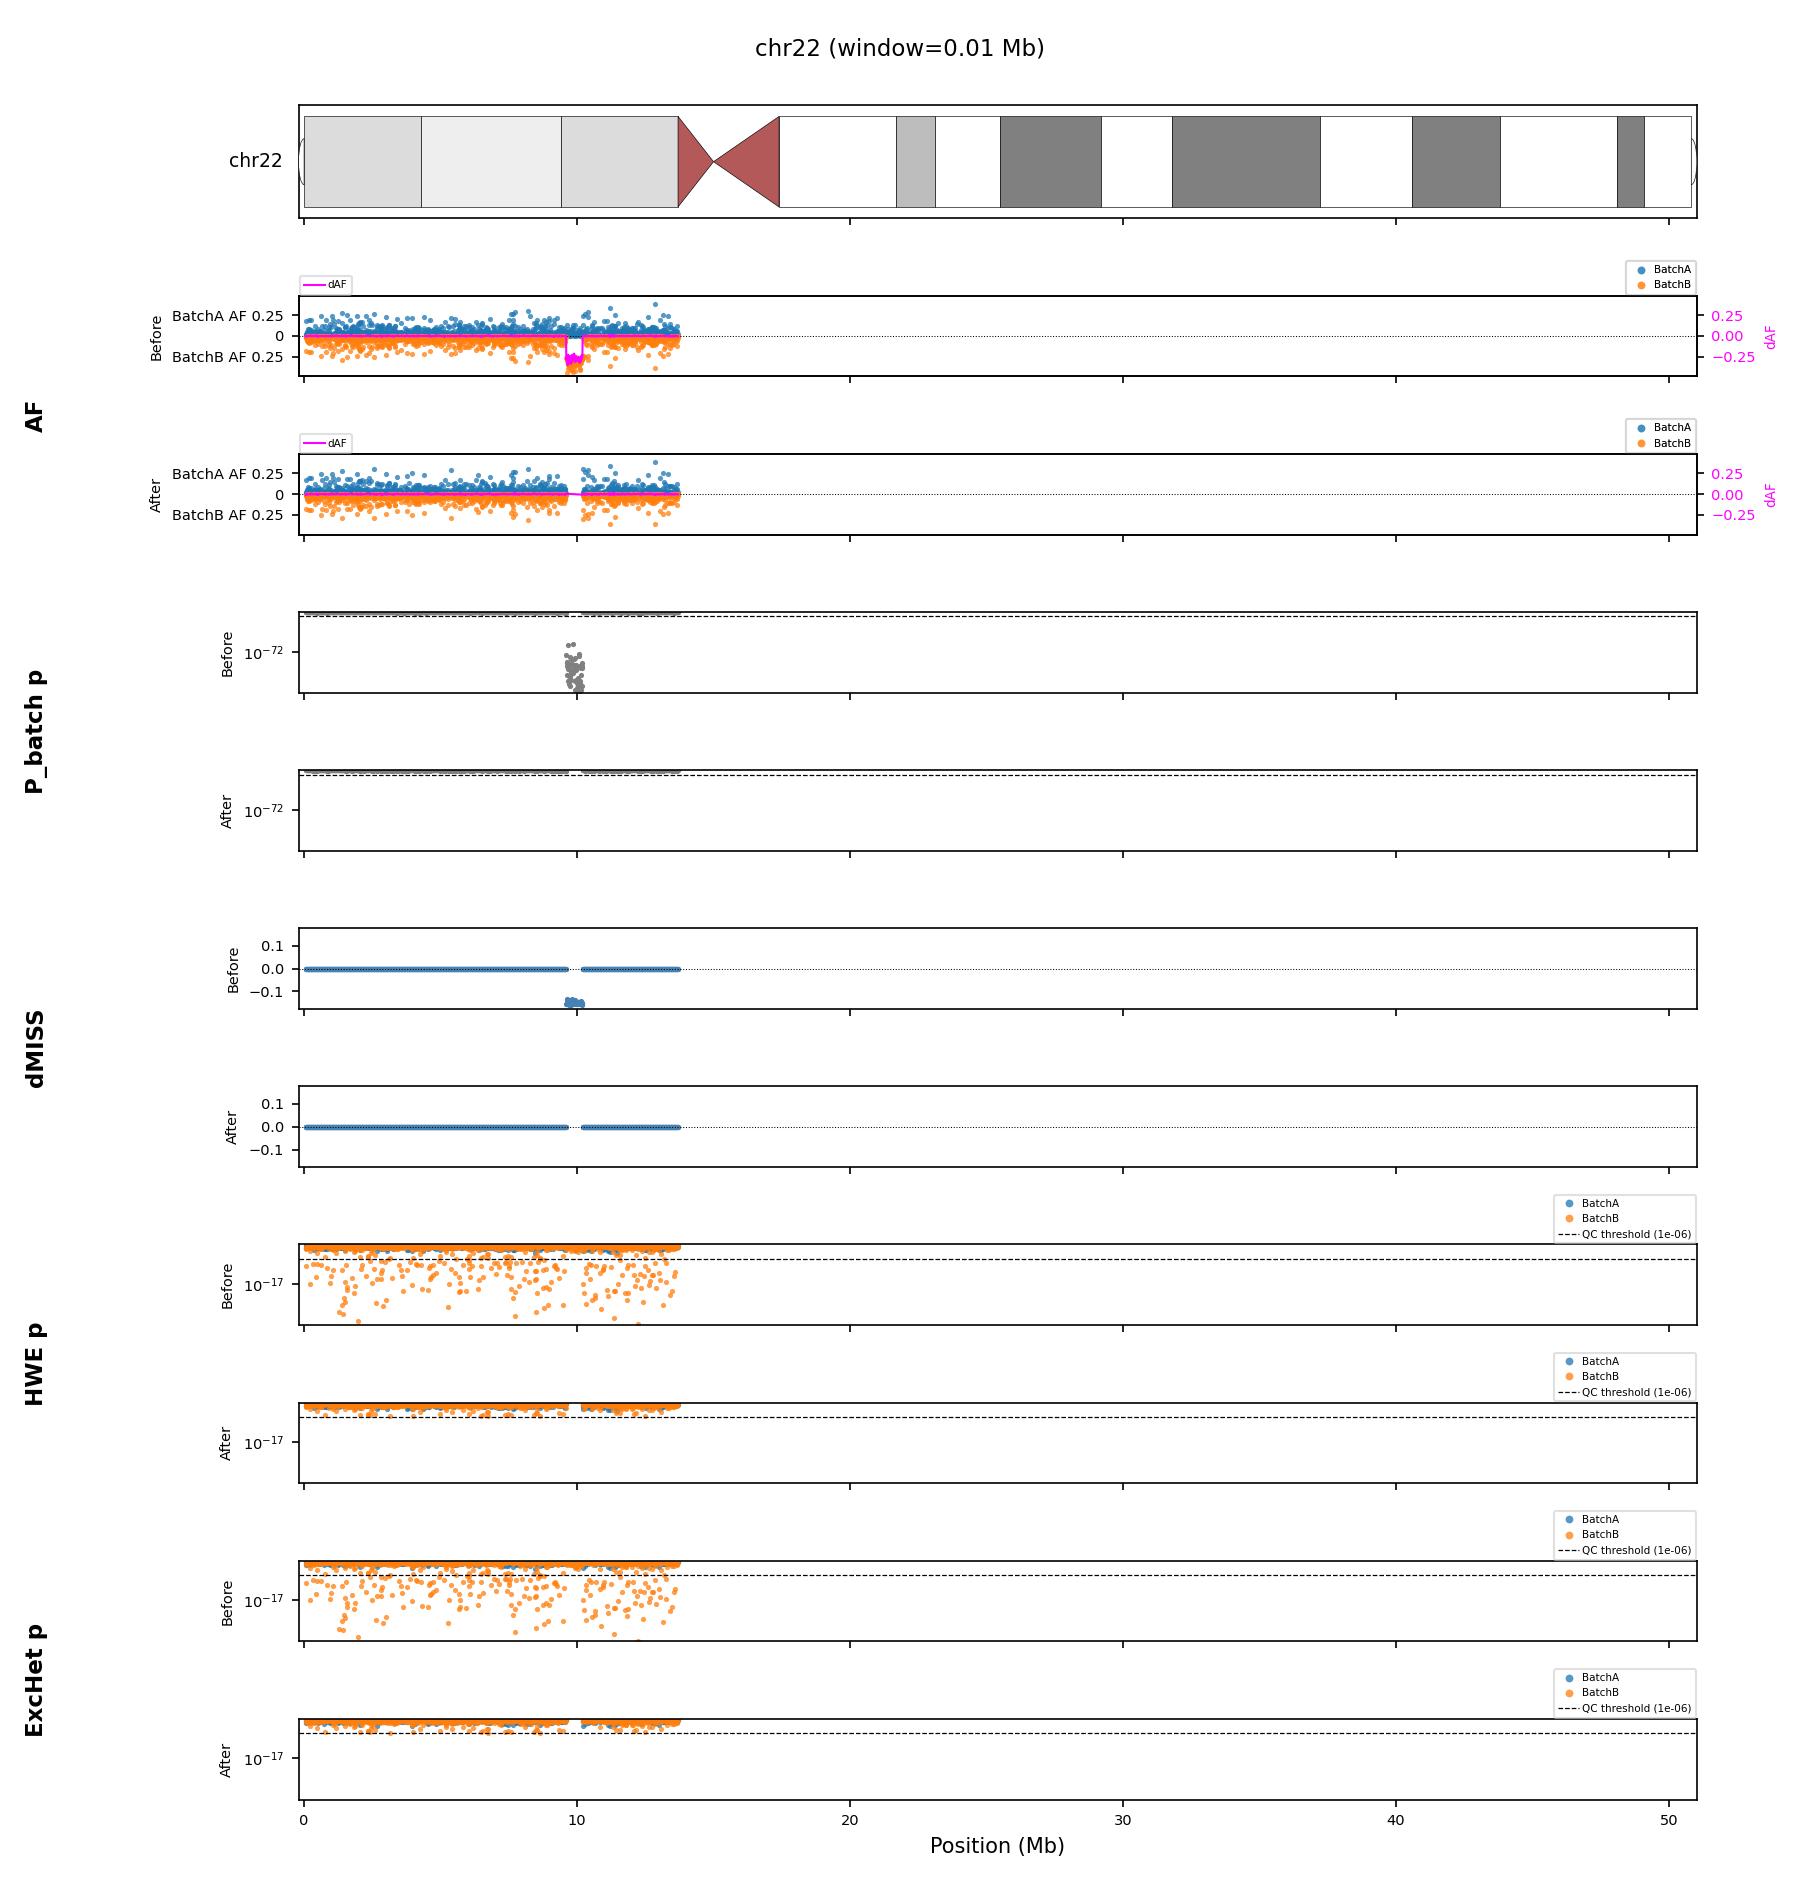
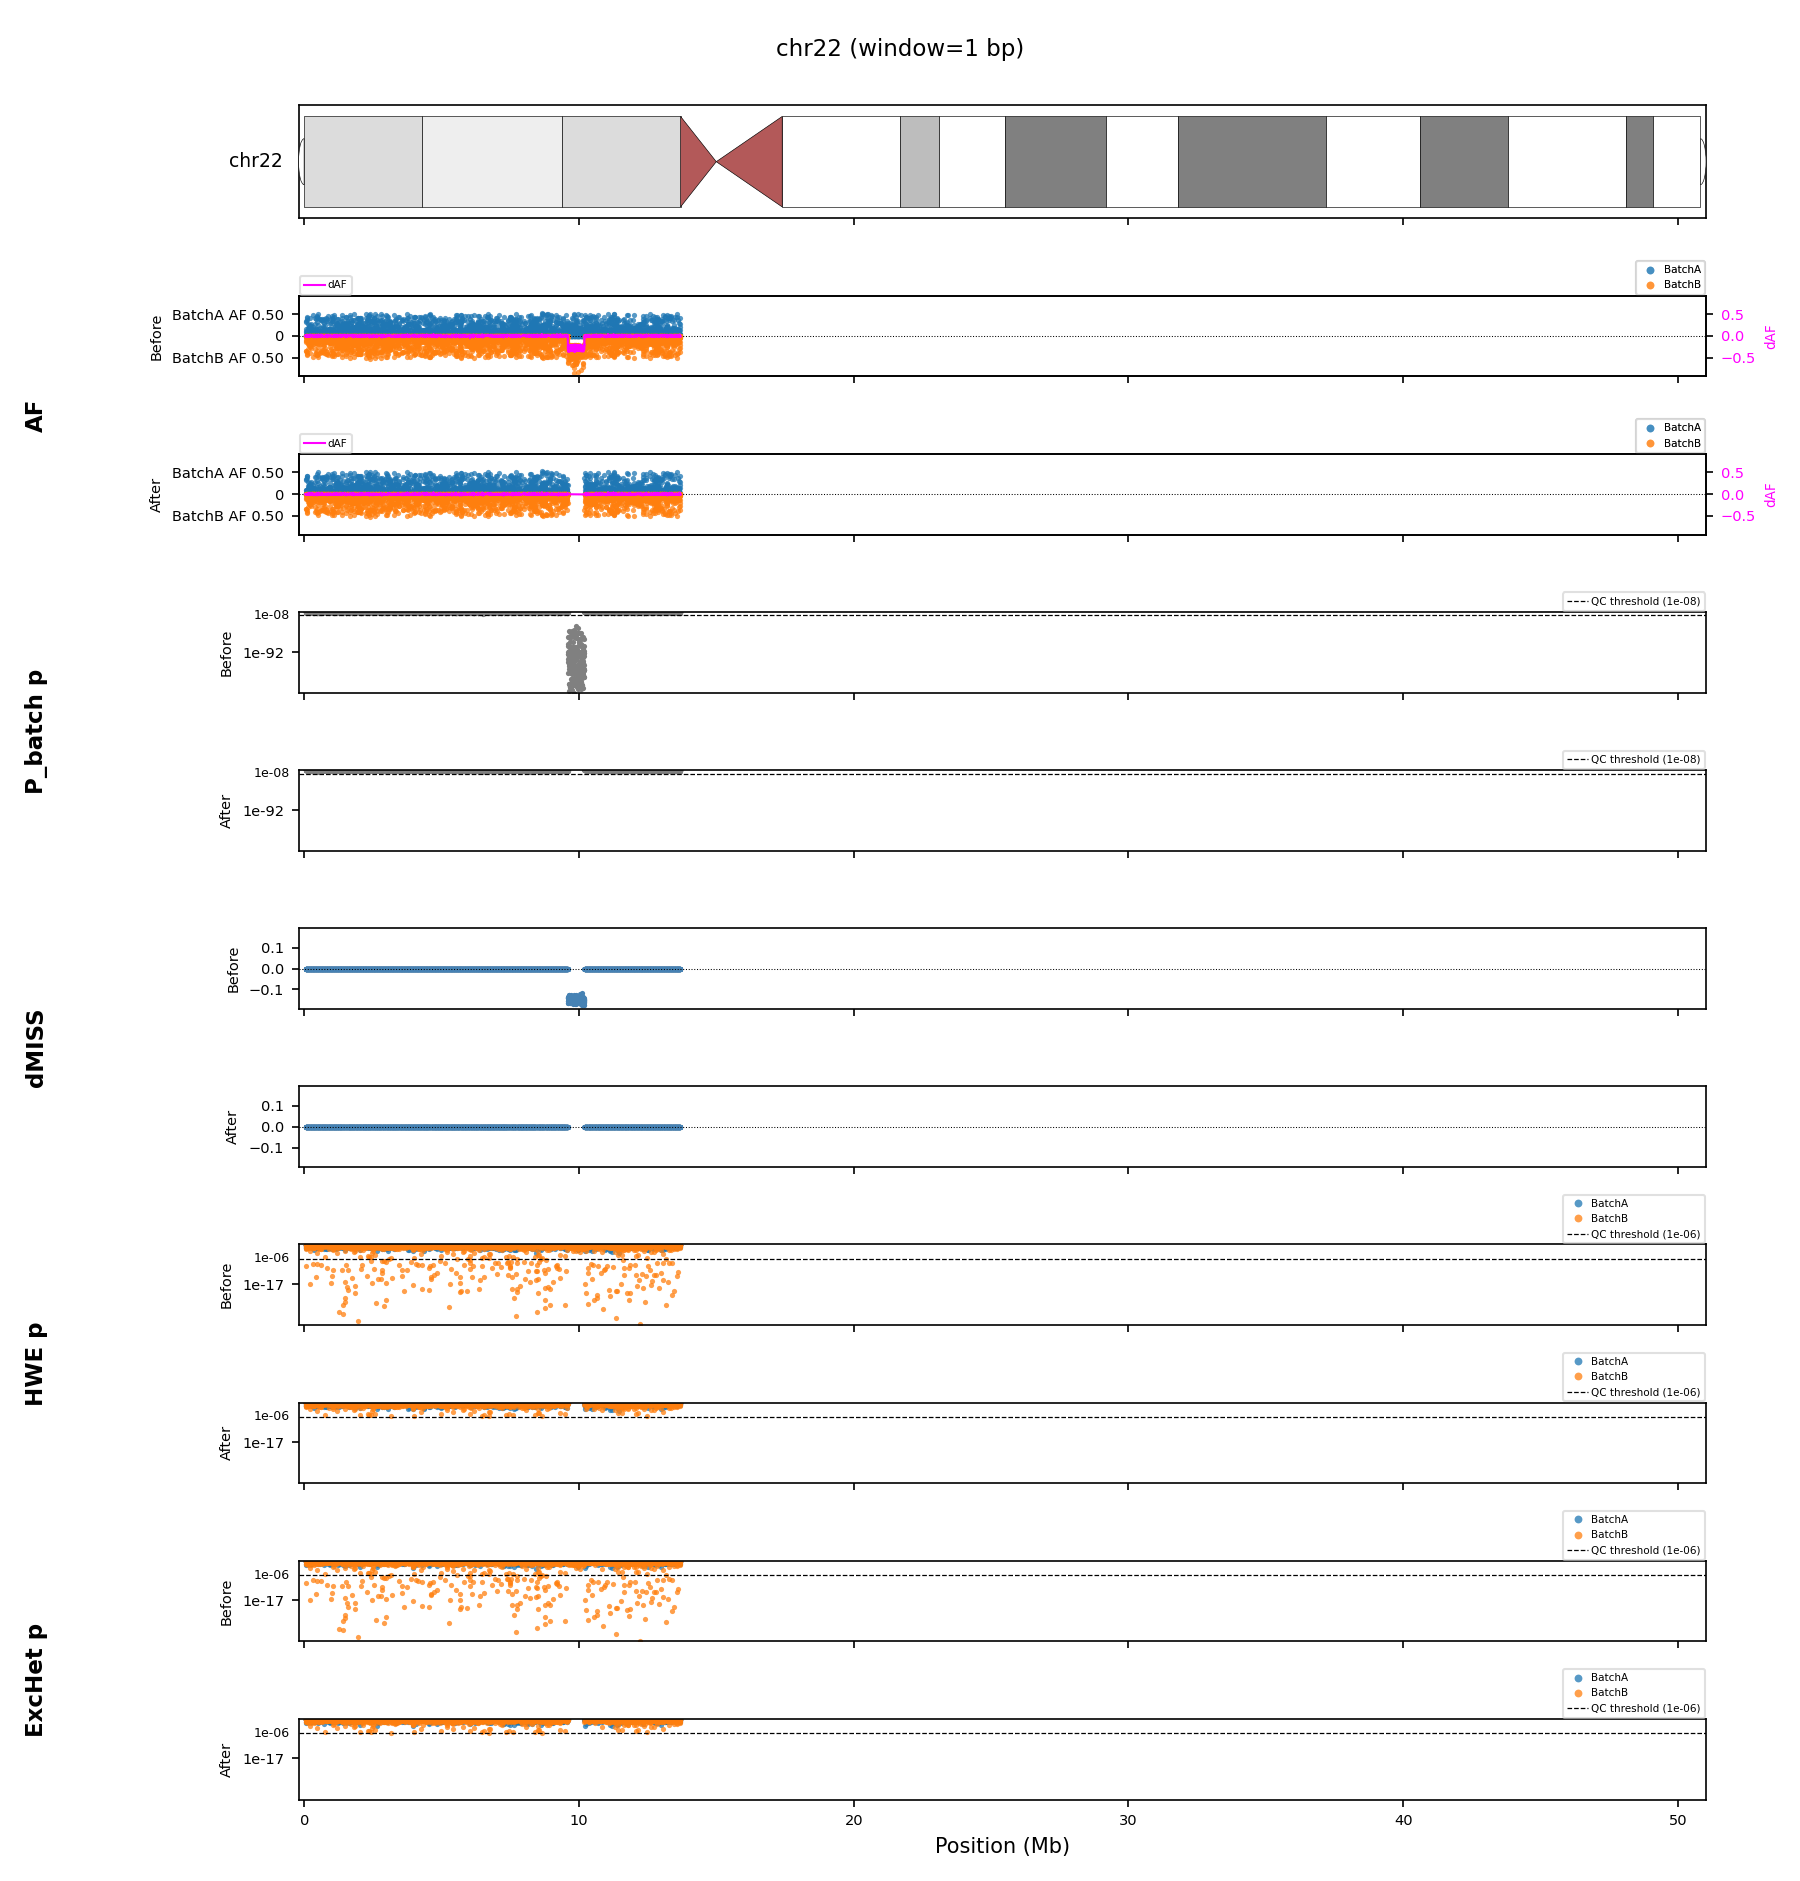
plot_batch_effect.py: default to 1bp windows, clearer threshold lines
- --window-mb default changed from 0.01 (10kb) to 1e-6 (1bp), i.e. no
  aggregation by default; sites are plotted at their raw per-site value.
- Show the "QC threshold" legend entry for the P_batch track too (it was
  previously only shown for grouped tracks, so the threshold line on
  P_batch had no indication of what it meant).
- Annotate each QC threshold line (P_batch/HWE/ExcHet) with its numeric
  value directly to the left of the line, not just in the legend.
- Format log-scale y-axis tick labels as "1e-06" etc., matching the
  threshold annotations (previously mixed with matplotlib's default
  "10^-6" style).
- Show the window size in the figure title as "N bp" when below 1 Mb.
- Regenerate docs/images/plot_batch_effect_example.png and update the
  README mentions of the new --window-mb default.

diff --git a/plot_batch_effect.py b/plot_batch_effect.py
@@ -11,7 +11,8 @@
      HWE p / ExcHet p): AF/HWE/ExcHet はグループ (--batches / --hwe-groups) ごとに色分けして
      同じ軸に重ねる (同じグループ名はどのトラックでも同じ色)
 
-各トラックは --window-mb (既定 0.01Mb = 10kb) ごとに集計した生の値をそのまま使う (二次加工なし):
+各トラックは --window-mb (既定 1bp = 集計なし、生のサイト単位の値をそのままプロット) ごとに集計した
+生の値をそのまま使う (二次加工なし):
   AFはグループ (--batches で指定したシーケンサー・コホートなど) ごとの列 (AF_<group>) を窓内中央値に
   したものを、グループごとに別系列で点に打つ。ちょうど2グループ (通常のバッチエフェクト診断のケース) の
   ときは、2番目のグループだけ表示を反転し (y = -AF) ゼロ線をはさんで下向きに伸びるようにする (保存
@@ -313,14 +314,19 @@ def plot_chromosome(chrom, cyto, before, after, thresholds, window_mb, af_groups
                 ax.plot(x_mb, df[key], color=color, marker='o', markersize=2.5, markeredgewidth=0, linestyle='none')
             if scale == 'log':
                 ax.set_yscale('log')
+                # 通常の目盛りも "1e-06" 形式にし、点線の脇の数値と表記を揃える (既定は "10^-6" 形式で混在する)
+                ax.yaxis.set_major_formatter(FuncFormatter(lambda v, _pos: f'{v:g}' if v > 0 else '0'))
             else:
                 ax.axhline(0, color='black', linewidth=0.5, linestyle=':')
             ax.set_ylim(*ylims[key])
             thr = thresholds.get(key)
             if thr is not None:
-                # 点線 = QCで使う基準線 (この値より悪い側がQC不合格になる境界)。凡例に値ごと示す
+                # 点線 = QCで使う基準線 (この値より悪い側がQC不合格になる境界)。
+                # 凡例に加えて、線のすぐ左側にも値を直接表示する (凡例は軸の外側で離れているため)
                 ax.axhline(thr, color='black', linewidth=0.6, linestyle='--', label=f'QC threshold ({thr:g})')
-            if grouped and key != 'af' and ax.get_legend_handles_labels()[0]:
+                ax.annotate(f'{thr:g}', xy=(0, thr), xycoords=('axes fraction', 'data'), xytext=(-4, 0),
+                            textcoords='offset points', ha='right', va='center', fontsize=6, clip_on=False)
+            if key != 'af' and ax.get_legend_handles_labels()[0]:
                 # 枠内に重ならないよう、軸の右上外側に配置する
                 ax.legend(loc='lower right', bbox_to_anchor=(1.0, 1.0), fontsize=5, framealpha=0.6,
                           markerscale=1.5, handletextpad=0.3, borderaxespad=0.1)
@@ -328,7 +334,9 @@ def plot_chromosome(chrom, cyto, before, after, thresholds, window_mb, af_groups
             ax.tick_params(labelsize=7)
     axes[-1].set_xlabel('Position (Mb)')
     axes[-1].set_xlim(-pad_mb, length_mb + pad_mb)
-    fig.suptitle(f'{chrom} (window={window_mb:g} Mb)', fontsize=11)
+    window_bp = round(window_mb * 1_000_000)
+    window_label = f'{window_bp} bp' if window_bp < 1_000_000 else f'{window_mb:g} Mb'
+    fig.suptitle(f'{chrom} (window={window_label})', fontsize=11)
     fig.tight_layout(rect=(0.07, 0, 1, 0.98))   # 指標名ラベル用に左側へ余白を確保
 
     # Before/After 1組ごとに、指標名をまたがる大きなラベルを付ける (比較が1セットだと分かるように)
@@ -347,7 +355,7 @@ def main():
     ap.add_argument('--before', required=True, help='補正前の batch_af_test_vcf.py 出力 (<prefix>.tsv.gz)')
     ap.add_argument('--after', required=True, help='補正後の batch_af_test_vcf.py 出力 (<prefix>.tsv.gz, 通常 --no-gt-filter)')
     ap.add_argument('-o', '--outdir', required=True, help='染色体ごとのPNGを書き出すディレクトリ')
-    ap.add_argument('--window-mb', type=float, default=0.01, help='集計する窓のサイズ (Mb, 既定 0.01 = 10kb)')
+    ap.add_argument('--window-mb', type=float, default=1e-6, help='集計する窓のサイズ (Mb, 既定 1e-6 = 1bp、つまり集計なし)')
     ap.add_argument('--cytoband', default=DEFAULT_CYTOBAND,
                      help=f'UCSC cytoBandIdeo ファイル (既定の配置先: {DEFAULT_CYTOBAND})')
     ap.add_argument('--chroms', help='対象染色体 (カンマ区切り)。既定: 両方の入力にデータがある染色体すべて')

diff --git a/README.ja.md b/README.ja.md
@@ -80,7 +80,8 @@ singularity exec wgs-gwasqc.sif python3 plot_batch_effect.py \
 いずれも値そのものへの二次加工はせず、p値のトラックだけY軸を対数スケールにしています。
 `AF`/`HWE`/`ExcHet` は、`batch_af_test_vcf.py` 実行時の `--batches`/`--hwe-groups` のグループごとに色分けして凡例付きで重ねて表示します
 (診断tsvにグループ別の生データがあるため。同じグループ名はどのトラックでも同じ色になります)。`dAF`/`dMISS`/`P_batch` はすでに差分・プールされた検定値でグループ別の生データが無いため、従来どおり1系列のままです。
-`--window-mb` で集計窓のサイズ (既定 0.01Mb = 10kb) を変更できます。
+`--window-mb` で集計窓のサイズ (既定 1e-6 = 1bp、つまり集計なし) を変更できます。ゲノムワイドな実データでは、
+点が多すぎて重くなる場合に `--window-mb 0.01` (10kb) のように指定してください。
 
 ## Singularity / Apptainer
 

diff --git a/README.md b/README.md
@@ -86,7 +86,8 @@ transformed; only the p-value Y-axes use a log scale. `AF`, `HWE` and `ExcHet` a
 (the same group name keeps the same color across tracks), since their raw values exist per group in the
 diagnostics file; `dAF`, `dMISS` and `P_batch` have no per-group raw value (they are already a difference
 or a pooled test), so they stay as a single series.
-Use `--window-mb` to change the aggregation window (default 0.01 Mb = 10 kb).
+Use `--window-mb` to change the aggregation window (default 1e-6 = 1 bp, i.e. no aggregation). For
+genome-wide real data, pass e.g. `--window-mb 0.01` (10 kb) if there are too many points to render quickly.
 
 ## Singularity / Apptainer
 
